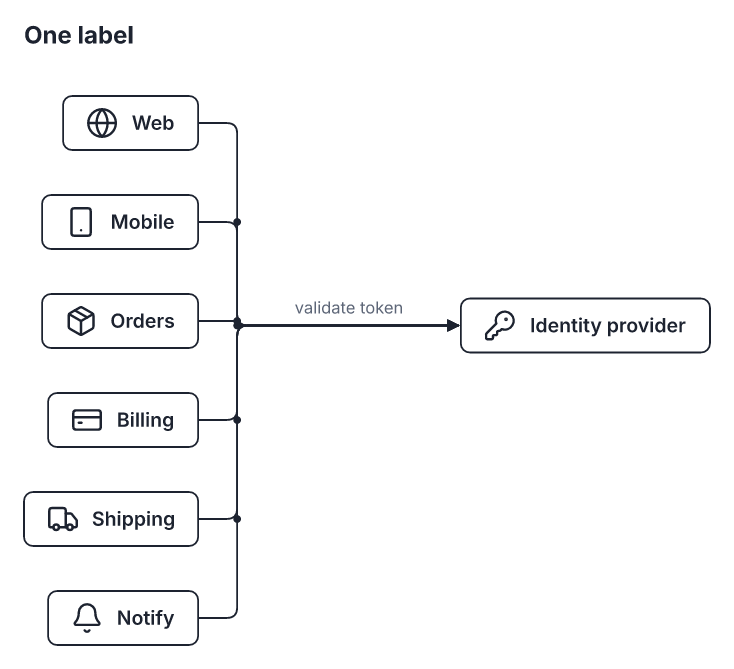
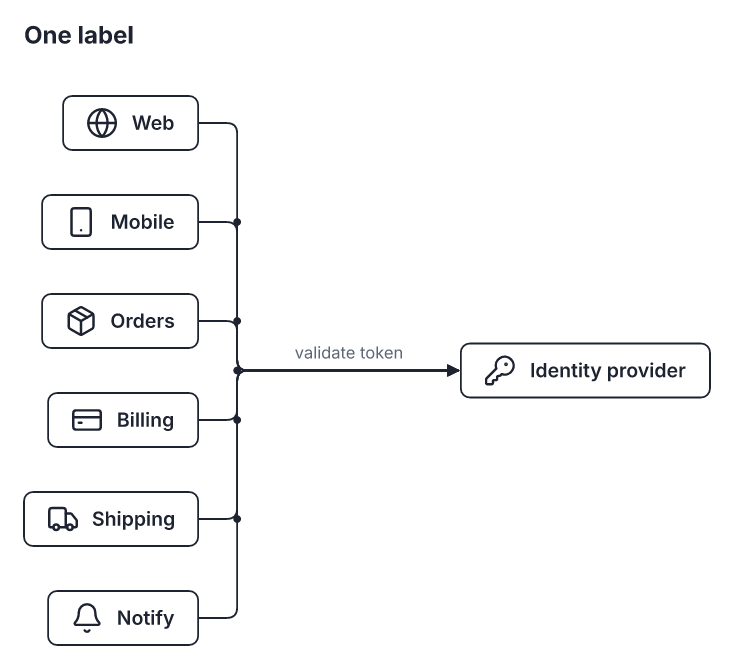
A bus's trunk goes midway between two branches (or the hub slides to one, or it lines up with a branch), never a few pixels beside one; link ends pushed apart on one side of a node keep the order of where their links go, so they do not cross just after leaving it (mark example, plain hybrid). Held-o

Changed region(s): [[0.6294, 0.4185, 0.9891, 0.5979], [0.2997, 0.4484, 0.6294, 0.568], [0.9591, 0.4484, 0.9891, 0.4783]]

diff --git a/src/trace.js b/src/trace.js
@@ -1555,26 +1555,72 @@ function mergeHubs(rm, MIN = 4) {
     const whole = plan.length;
     plan = plan.filter(x => !x.path.some((p, j) => j && busLines.some(([u, w]) => crossSeg(x.path[j - 1], p, u, w))));
     if (plan.length < Math.max(need, Math.ceil(whole * 0.75))) continue;
-    const cs = plan.map(x => x.c).concat(trunkC), lo = Math.min(...cs), hi = Math.max(...cs);
+    // the trunk never runs a few pixels beside a branch (it reads as a slip): it goes midway between two branches,
+    // on the hub's side, or the hub slides to such a place when it is free to; else it lines up with the branch
+    const placed = placeTrunk(rm, hub, plan.map(x => x.c), trunkC, vert, new Set(plan.map(x => x.it.r)));
+    const trunkAt = placed.t;
+    if (trunkAt !== trunkC) {
+      const t = trunkAt;
+      plan.forEach(x => {
+        const n = x.path.length;
+        x.path[n - 2] = mk(busM, t); x.path[n - 1] = mk(endM, t);
+      });
+    }
+    const trunkC2 = trunkAt;
+    const cs = plan.map(x => x.c).concat(trunkC2), lo = Math.min(...cs), hi = Math.max(...cs);
     // nor is it built where branches of a bus already drawn would cut across its own line
-    const mine = [[mk(busM, lo), mk(busM, hi)], [mk(busM, trunkC), mk(endM, trunkC)]];
+    const mine = [[mk(busM, lo), mk(busM, hi)], [mk(busM, trunkC2), mk(endM, trunkC2)]];
     if (rm.edges.some(o => o.merged && o.e.a !== hub.id && o.e.b !== hub.id && o.pts.some((p, j) => j && mine.some(([u, w]) => crossSeg(o.pts[j - 1], p, u, w))))) continue;
-    busLines.push([mk(busM, lo), mk(busM, hi)], [mk(busM, trunkC), mk(endM, trunkC)]);
+    if (placed.d) { if (vert) hub.x += placed.d; else hub.y += placed.d; }
+    busLines.push([mk(busM, lo), mk(busM, hi)], [mk(busM, trunkC2), mk(endM, trunkC2)]);
     plan.forEach((x, i) => {
       const r = x.it.r;
       let out = x.path.filter((p, j, a) => j === 0 || Math.hypot(p.x - a[j - 1].x, p.y - a[j - 1].y) > 0.5);
       out = simplifyPts(out);
       r.pts = rev ? out.reverse() : out;
       r.merged = true; r.mergeHub = hub.id; r.mergeRep = i === 0; used.add(r);
-      if (x.c > lo + 0.5 && x.c < hi - 0.5 && !eq(x.c, trunkC)) rm.joins.push(mk(busM, x.c));
+      if (x.c > lo + 0.5 && x.c < hi - 0.5 && !eq(x.c, trunkC2)) rm.joins.push(mk(busM, x.c));
       if (i) r.lab = null;
     });
-    if (plan.some(x => x.c < trunkC - 0.5) && plan.some(x => x.c > trunkC + 0.5)) rm.joins.push(mk(busM, trunkC));
+    if (plan.some(x => x.c < trunkC2 - 0.5) && plan.some(x => x.c > trunkC2 + 0.5)) rm.joins.push(mk(busM, trunkC2));
     const keep = plan[0].it.r;
-    if (keep.lab && keep.e.lab) keep.lab = { x: (busM + endM) / 2, y: trunkC - 4 - keep.e.lab.h, anchor: 'middle' };
+    if (keep.lab && keep.e.lab) keep.lab = { x: (busM + endM) / 2, y: trunkC2 - 4 - keep.e.lab.h, anchor: 'middle' };
   }
   const seen = new Set();
   rm.joins = rm.joins.filter(p => { const k = Math.round(p.x) + ',' + Math.round(p.y); if (seen.has(k)) return false; seen.add(k); return true; });
+}
+
+// Where a bus's trunk meets its hub. A trunk a few pixels beside a branch reads as a slip, so when one is that
+// close the trunk goes midway between two branches on the hub's side; if no such place is on the side, the hub
+// slides across to one (only when all its links are in this bus and the room is free); failing that, the trunk
+// lines up with the branch. Returns { t: the trunk's coordinate across, d: how far the hub moves }.
+function placeTrunk(rm, hub, cs, trunkC, vert, planRs) {
+  const NEAR = 14, R = 10, MAXMOVE = 60;
+  if (!cs.some(c => Math.abs(c - trunkC) > 0.5 && Math.abs(c - trunkC) < NEAR)) return { t: trunkC, d: 0 };
+  const sorted = [...cs].sort((a, b) => a - b).filter((c, i, a) => !i || c - a[i - 1] > 0.5);
+  const mids = [];
+  for (let i = 1; i < sorted.length; i++) if (sorted[i] - sorted[i - 1] >= 2 * NEAR) mids.push((sorted[i] + sorted[i - 1]) / 2);
+  const lo = (vert ? hub.x : hub.y) + R, hi = (vert ? hub.x + hub.w : hub.y + hub.h) - R;
+  const byNear = a => [...a].sort((x, y) => Math.abs(x - trunkC) - Math.abs(y - trunkC));
+  const inSide = byNear(mids.filter(m => m >= lo && m <= hi));
+  if (inSide.length) return { t: inSide[0], d: 0 };
+  // the hub may slide when nothing else is tied to it
+  const own = rm.edges.filter(r => r.e.a === hub.id || r.e.b === hub.id);
+  if (own.every(r => planRs.has(r))) {
+    const box = d => vert ? { x: hub.x + d, y: hub.y, w: hub.w, h: hub.h } : { x: hub.x, y: hub.y + d, w: hub.w, h: hub.h };
+    const near = (a, b, g) => a.x < b.x + b.w + g && b.x < a.x + a.w + g && a.y < b.y + b.h + g && b.y < a.y + a.h + g;
+    const inside = (a, f, g) => a.x >= f.x + g && a.y >= f.y + g && a.x + a.w <= f.x + f.w - g && a.y + a.h <= f.y + f.h - g;
+    const free = nb => rm.nodes.every(n => n === hub || n.x === undefined || !near(n, nb, 12)) &&
+      (rm.frames || []).every(f => inside(hub, f, 0) ? inside(nb, f, 10) : !near(nb, f, 6)) &&
+      rm.edges.every(r => planRs.has(r) || !r.pts || r.e.rail || r.e.lifeline || r.e.divider ||
+        !r.pts.some((p, j) => j && near({ x: Math.min(p.x, r.pts[j - 1].x), y: Math.min(p.y, r.pts[j - 1].y), w: Math.abs(p.x - r.pts[j - 1].x), h: Math.abs(p.y - r.pts[j - 1].y) }, nb, 6)));
+    for (const m of byNear(mids)) {
+      const d = m - trunkC;
+      if (Math.abs(d) <= MAXMOVE && free(box(d))) return { t: m, d };
+    }
+  }
+  const on = byNear(sorted.filter(c => c >= lo && c <= hi));
+  return on.length ? { t: on[0], d: 0 } : { t: trunkC, d: 0 };
 }
 
 // Two links whose stretches run side by side closer than 8px (or on top of each other) are pulled apart to
@@ -1733,8 +1779,18 @@ function spreadEnds(rm, gap0 = 22) {
     Math.min(x1, x2) < n.x + n.w - 0.5 && n.x + 0.5 < Math.max(x1, x2) && Math.min(y1, y2) < n.y + n.h - 0.5 && n.y + 0.5 < Math.max(y1, y2));
   for (const [, list] of groups) {
     if (list.length < 2) continue;
-    list.sort((a, b) => a.pos - b.pos);
     const horiz = list[0].side === 'top' || list[0].side === 'bottom';
+    // ends on one point are put in the order that keeps their links apart once pushed: a link turning right goes
+    // right of a straight one, which goes right of one turning left; of two turning the same way, the one that
+    // turns sooner goes on the outside of the turn
+    const turn = e => { if (!e.nn) return 0; const h = (horiz ? e.nn.x : e.nn.y) - e.pos; return Math.abs(h) < 0.5 ? 0 : Math.sign(h); };
+    const reach = e => horiz ? Math.abs(e.nx.y - e.n.y - (e.side === 'bottom' ? e.n.h : 0)) : Math.abs(e.nx.x - e.n.x - (e.side === 'right' ? e.n.w : 0));
+    list.sort((a, b) => {
+      if (Math.abs(a.pos - b.pos) > 0.5) return a.pos - b.pos;
+      const ta = turn(a), tb = turn(b);
+      if (ta !== tb) return ta - tb;
+      return ta < 0 ? reach(a) - reach(b) : ta > 0 ? reach(b) - reach(a) : 0;
+    });
     const n = list[0].n, lo = (horiz ? n.x : n.y) + 5, hi = (horiz ? n.x + n.w : n.y + n.h) - 5;
     // a short side with many links: share the room out evenly, down to 7px between links
     const gap = Math.max(7, Math.min(gap0, (hi - lo) / (list.length - 1)));

diff --git a/docs/drawing-rules.md b/docs/drawing-rules.md
@@ -36,6 +36,8 @@ kept only if the held-out diagrams (`examples/holdout/`) do not get worse.
 | A link with one unnecessary extra step (down, across, down, across, down) takes the shorter route. | CI/CD (the "yes, push" snake) | engine: `simplifySnakes` | a 6-point link that fits in 4 |
 | Links into the same node step at the same height. | DMZ | engine: `alignJogs` | single-step links into one node with different step heights |
 | Four or more links with the same meaning into one node are one bus with the label once, if there is room for the arrowheads. | hub, column and row (arrows squeezed against the bus) | engine: `mergeHubs`, needs a 46 px gap | four or more links, same target, same label |
+| A bus's trunk never runs a few pixels beside a branch: it goes midway between two branches on the hub's side; if no such place is on the side, the hub slides to one when all its links are in the bus and the room is free; failing that, the trunk lines up exactly with the branch. | owner on the layout guide (“much better in the middle of two links … weird when it's just a few pixels next to an edge”); CQRS, home network, security operations | engine: `placeTrunk` in `mergeHubs` | a trunk between 0.5 and 14 px from a branch |
+| Link ends pushed apart on one side of a node keep the order of where their links go: a link turning right goes right of a straight one, which goes right of one turning left; of two turning the same way, the one that turns first is on the outside. | owner on the layout guide's `mark` example (Orders to Shipping crossing Orders to Orders DB) | engine: `spreadEnds` | two links from one side of a node that cross just after leaving it |
 | A bus belongs to the group it gathers: when more than four of its links come from (or go to) members of one zone the hub is not in, they meet at a bar inside that zone, and one link crosses the zone’s edge. The bar reaches from the first member’s level to the last; each link runs straight across to it at its member’s level (or, when another member is in the way, round it to a free place on the bar, 10 px or more from the others), and the bar’s own link arrives between two of them, never level with one (it would read as one line through the bar). | hub (the owner: a concentrator as close to the group as possible, drawn as a bar, “many links connected to a small element must look neat”); replaces `spacing 1.3` there | engine: `addJunctions` before layout (the bar is placed by the layout, first in its zone for a fan-out, last for a fan-in; a layout where it is not is refused), `placeOnConcentrators` after | five or more links between one node and members of one zone, not gathered inside it |
 | Two links leaving a node closer than 8 px count as on top of each other everywhere, in the router’s choice of where to leave too. | simple hub (Orders’ branch and its link to Shipping 5 px apart) | engine: start and port stubs in `rerouteBlocked` | two link ends on one side closer than 8 px |
 | A bus branch is an obstacle where it leaves its own node: other ends keep clear of it. | simple hub | engine: `spreadEnds` | n/a |
